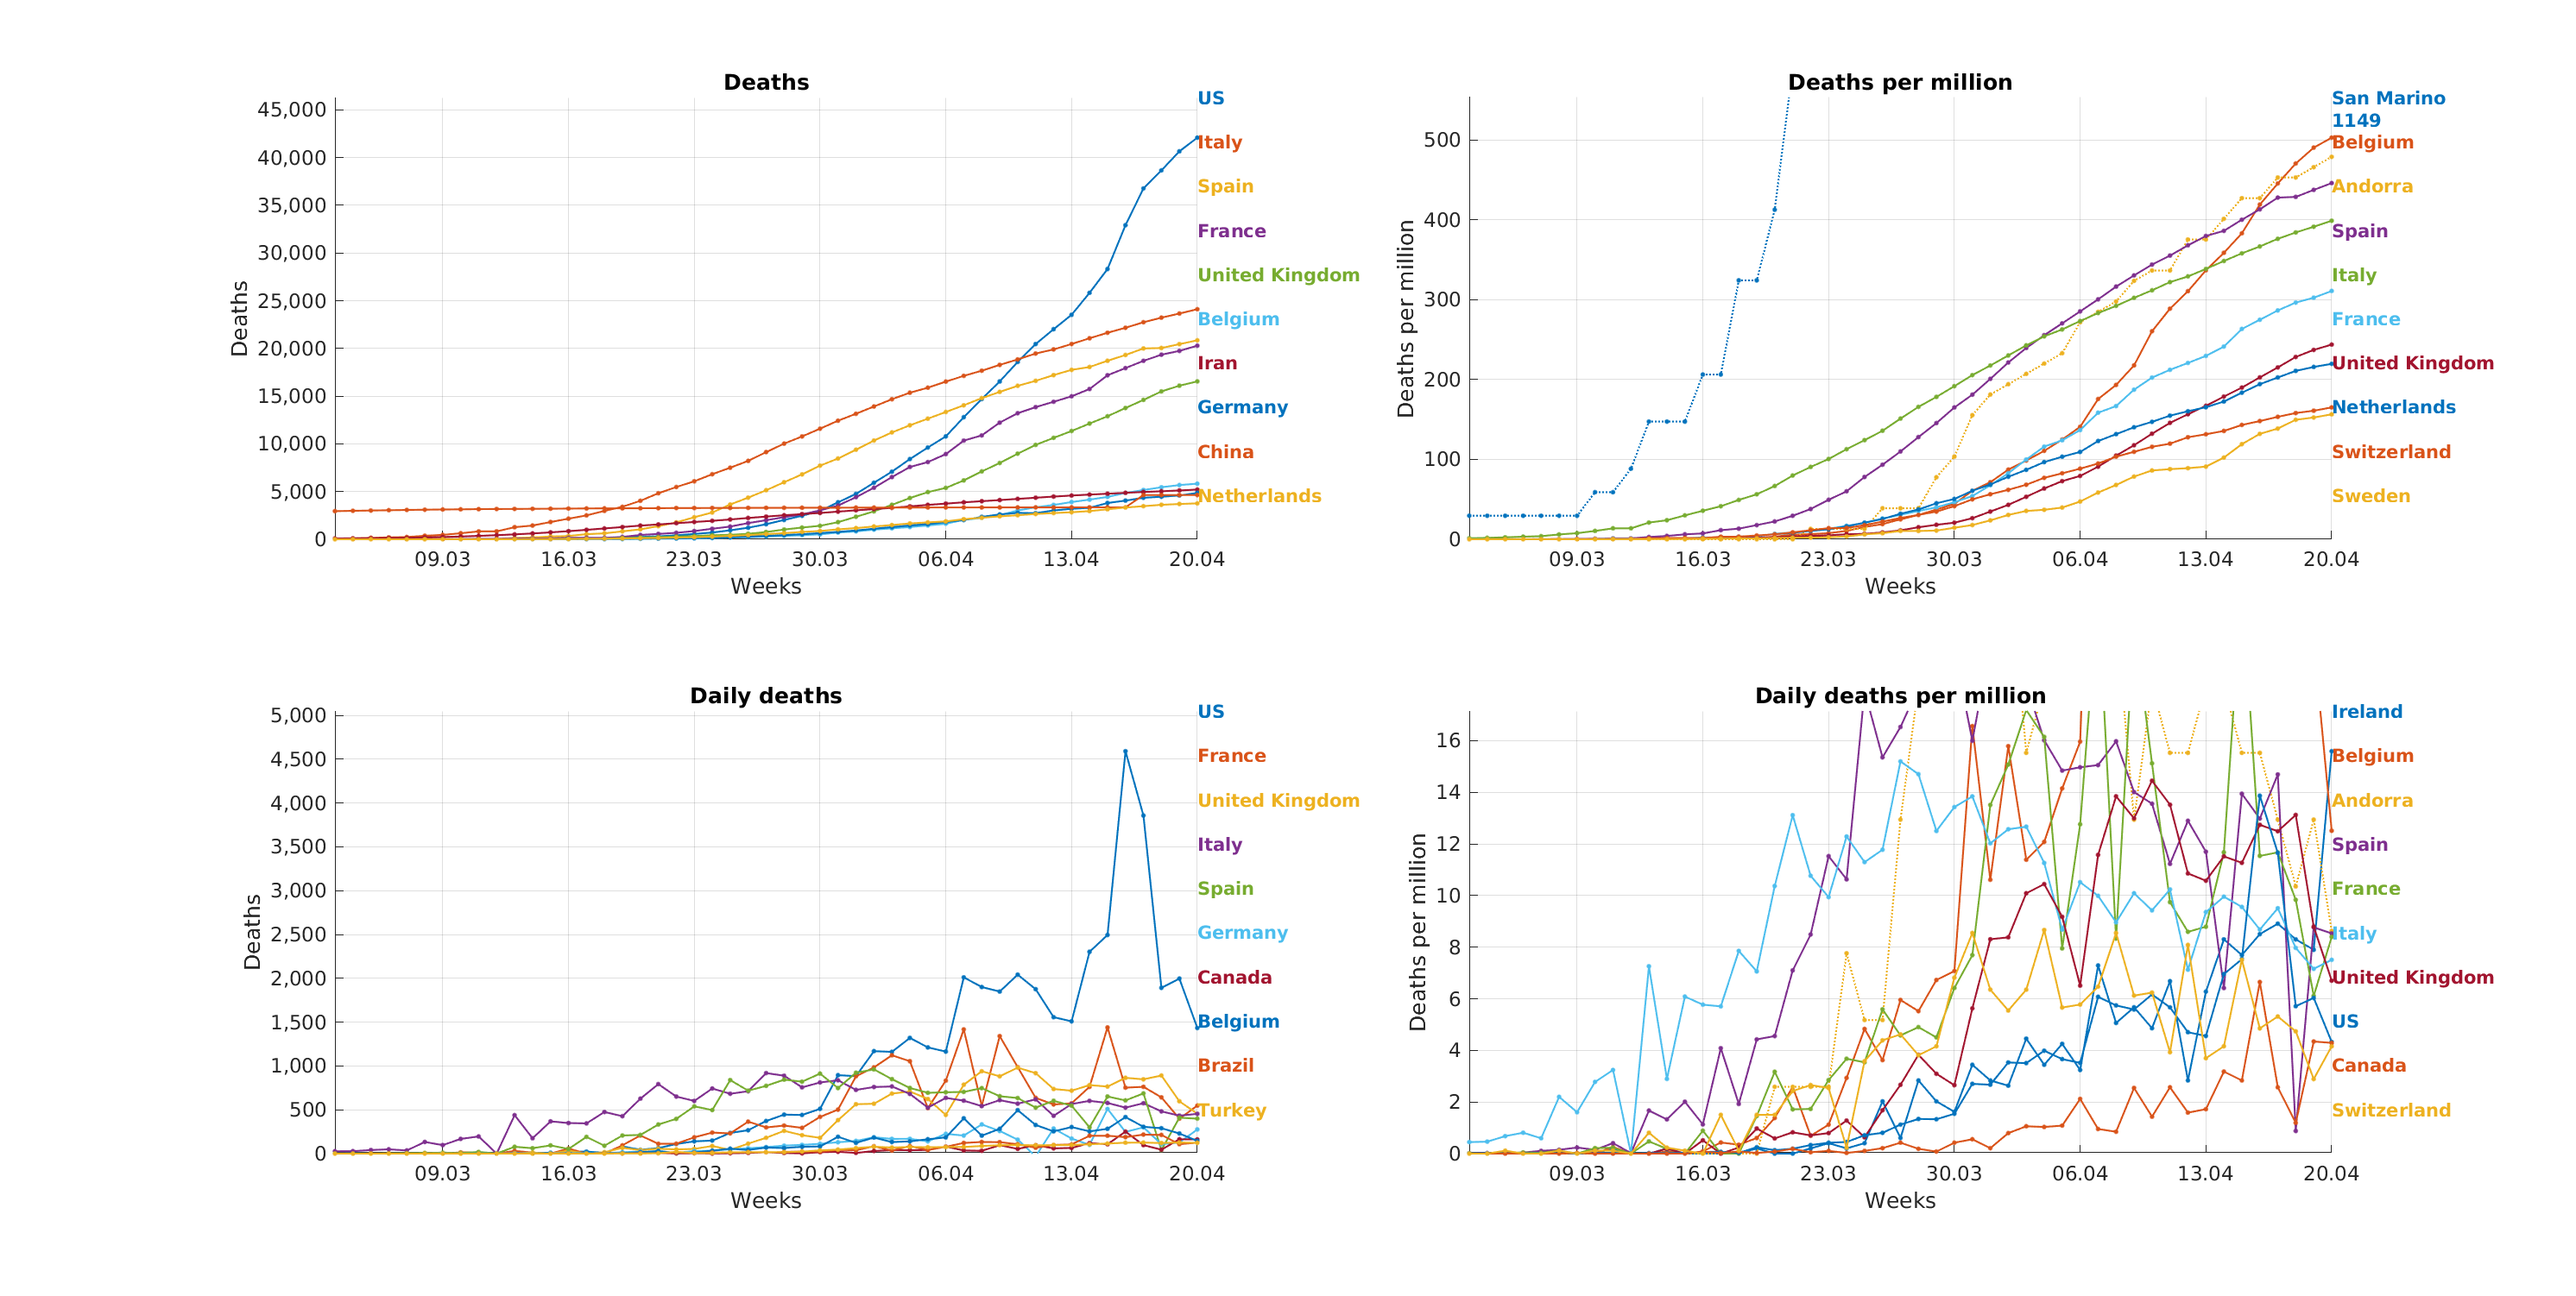
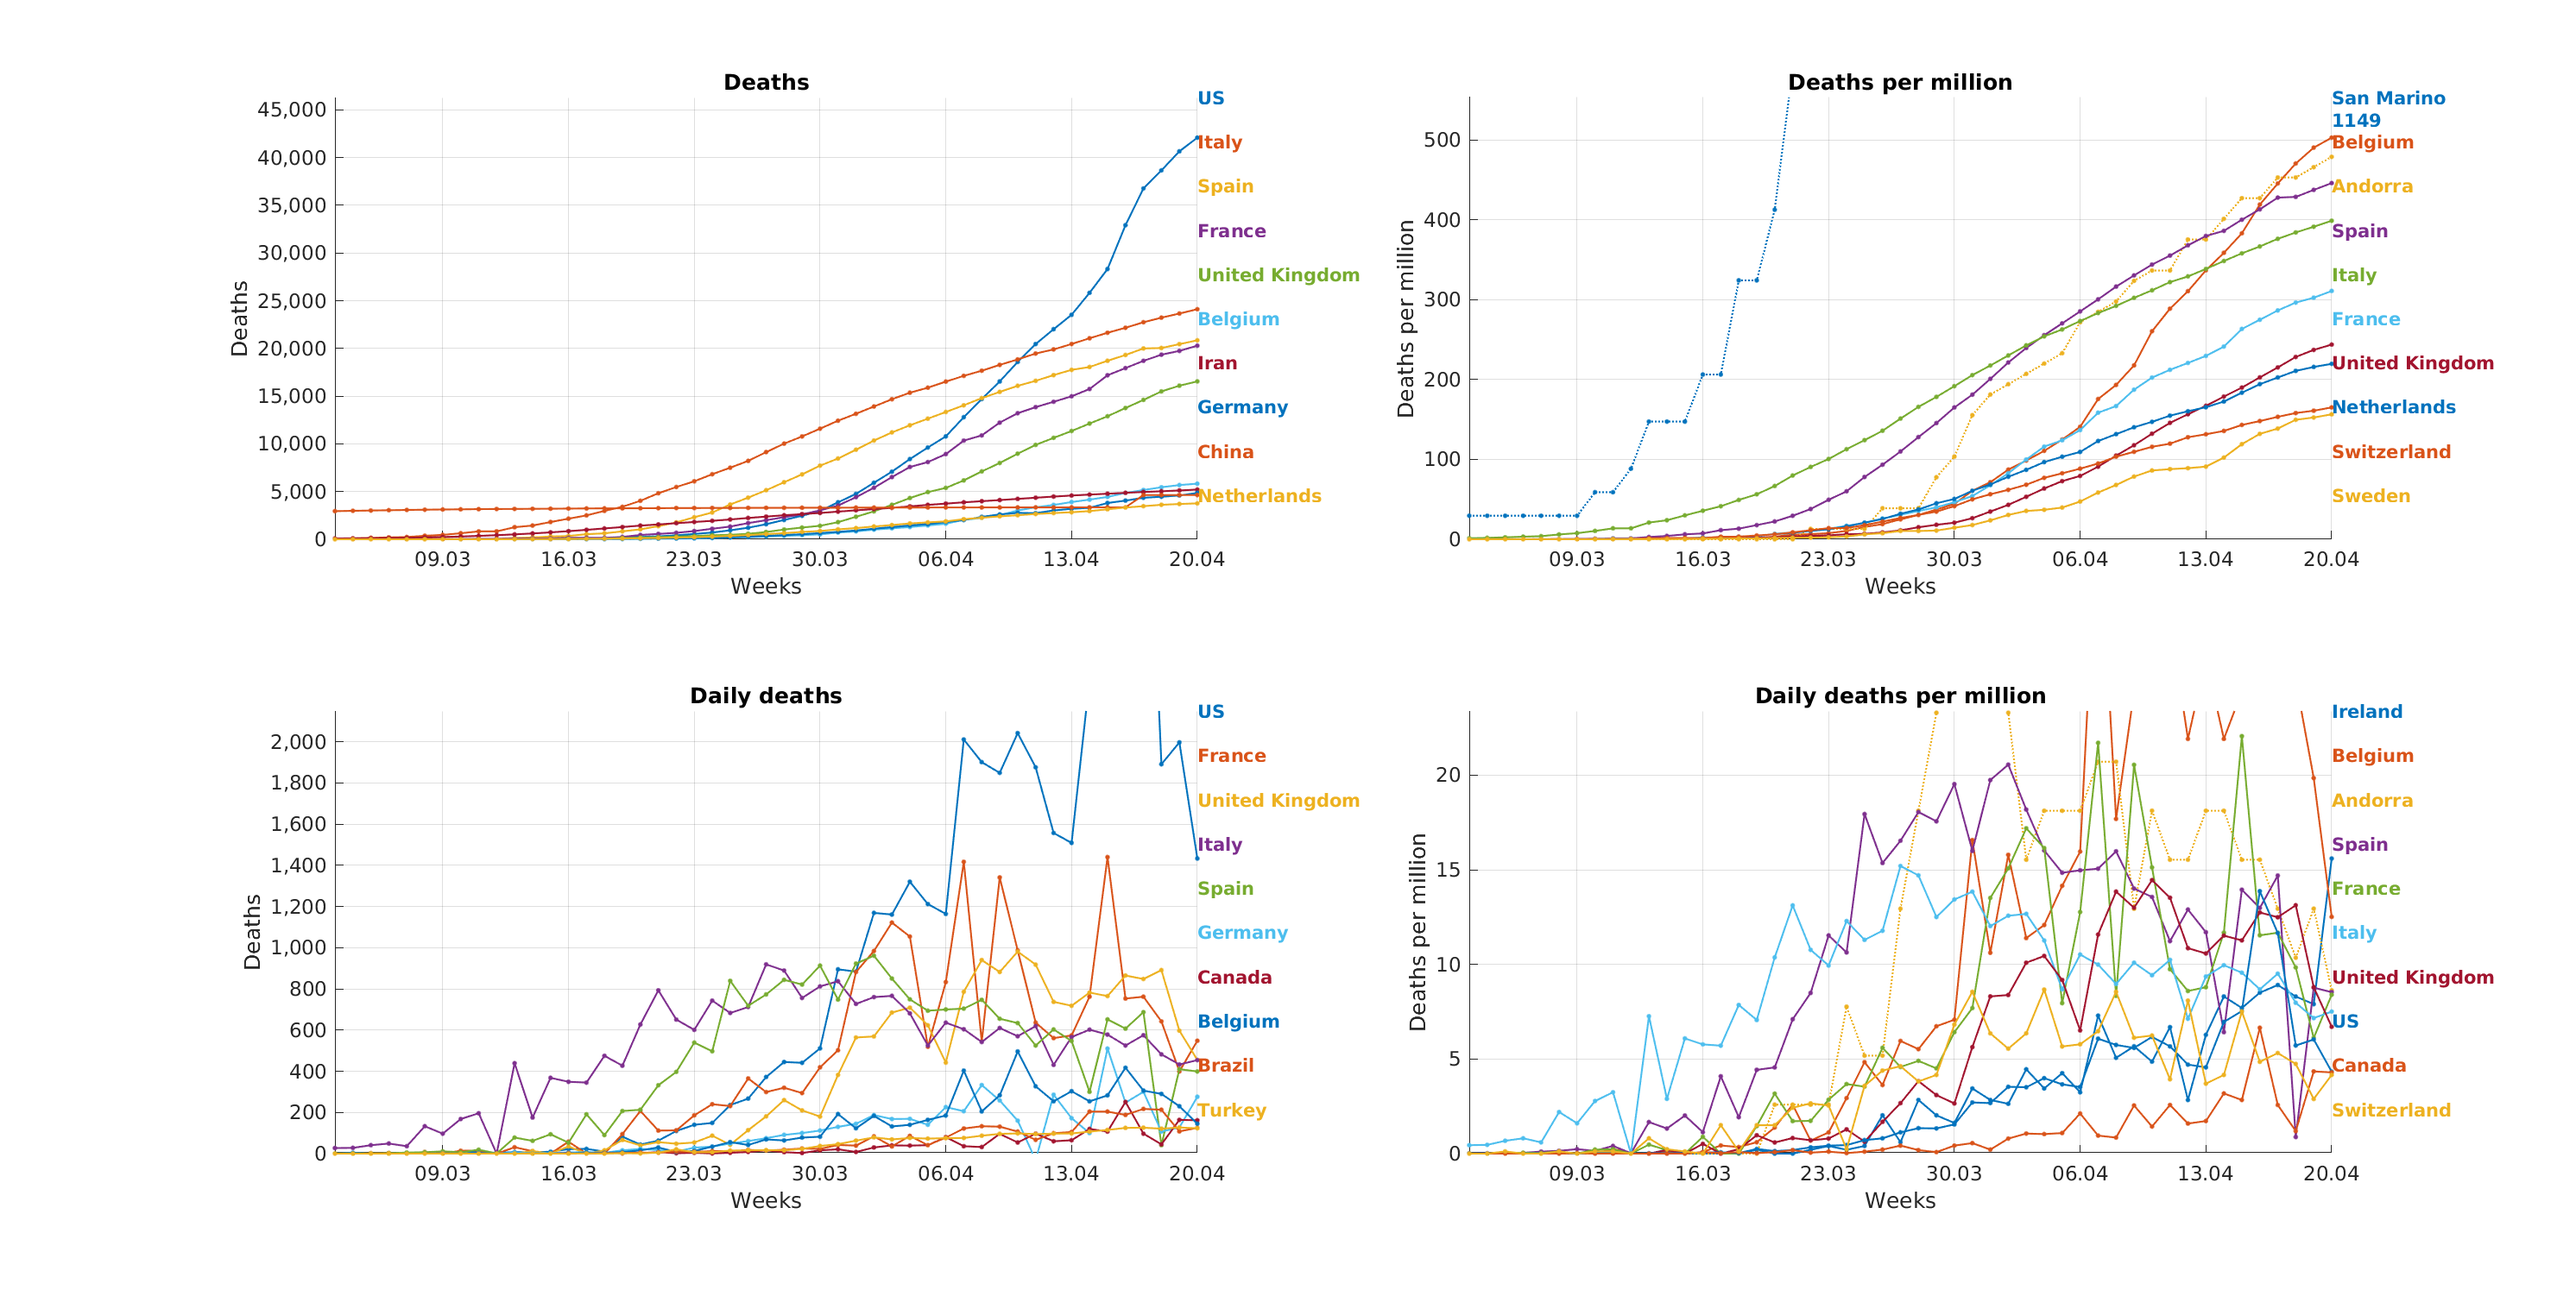
daily update

diff --git a/code/covid_news.m b/code/covid_news.m
@@ -80,11 +80,13 @@ for iPlot = 1:4
         case 3
             title('Daily deaths')
             ylabel('Deaths')
-            ymax = max(max(y(:,:,iPlot)))*1.1;
+            %ymax = max(max(y(:,:,iPlot)))*1.1;
+            ymax = sort(y(end,:,iPlot));
+            ymax = ymax(end)*1.5;
             yt = fliplr(ymax/nCountries:ymax/nCountries:ymax);
         case 4
             title('Daily deaths per million')
-            ymax = max(y(end,:,iPlot))*1.1;
+            ymax = max(y(end,:,iPlot))*1.5;
             yt = fliplr(ymax/nCountries:ymax/nCountries:ymax);
             ylabel('Deaths per million')
     end
@@ -110,7 +112,7 @@ xlabel('Weeks')
 set(gca,'XTick',iXtick,'XTickLabel',datestr(timeVector(iXtick),'dd.mm'))
 xlim([42 length(timeVector)])
 title('Daily deaths per million')
-ymax = max(y(end,:,iPlot))*1.1;
+ymax = max(y(end,:,iPlot))*1.5;
 ylabel('Deaths per million')
 ylim([0 ymax])
 ytickformat('%,d')
